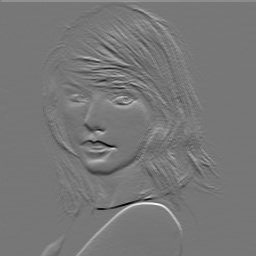
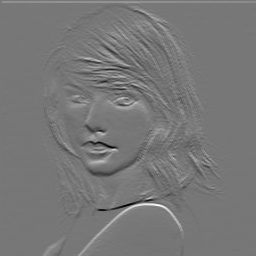
FUCK YES

diff --git a/hw1/task1.py b/hw1/task1.py
@@ -123,7 +123,7 @@ def convolve2d(img, kernel):
     return img_conv
 
 
-def normalize(img, val=1.0):
+def normalize(img):
     """
     Normalizes a given image.
 
@@ -143,15 +143,14 @@ def normalize(img, val=1.0):
     # TODO: implement this function.
     img_max = max([max(x) for x in img]) * 1.0
     img_min = min([min(x) for x in img]) * 1.0
-    val *= 1.0
-    img_min = 0.0
+
+    # m, n = len(img), len(img[0])
+    img_normalized = img.copy()
+
     for i in range(len(img)):
         for j in range(len(img[0])):
-            img[i][j] = (img[i][j] - img_min) * val / (img_max - img_min)
-            img[i][j] = max(img[i][j], 0.0)
-            img[i][j] = min(img[i][j], val)
-
-    return img
+            img_normalized[i][j] = (float (img[i][j] - img_min)) / (img_max - img_min)
+    return img_normalized
 
 
 def detect_edges(img, kernel, norm=True):
@@ -170,7 +169,7 @@ def detect_edges(img, kernel, norm=True):
     img_edges = convolve2d(img, kernel)
 
     if norm:
-        img_edges = normalize(img_edges, 255.0)
+        img_edges = normalize(img_edges)
     
     return img_edges
 
@@ -194,9 +193,6 @@ def edge_magnitude(edge_x, edge_y):
         edge_mag: nested list (int), image containing magnitude of detected edges.
     """
     # TODO: implement this function.
-    edge_x = normalize(edge_x, 255.0)
-    edge_y = normalize(edge_y, 255.0)
-
     edge_x_squared = utils.elementwise_mul(edge_x, edge_x)
     edge_y_squared = utils.elementwise_mul(edge_y, edge_y)
     
